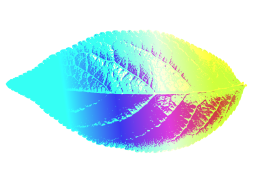
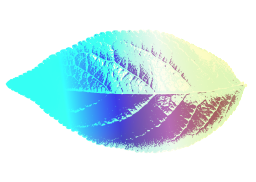
make colors more saturated

Changed region(s): [[0.3125, 0.1648, 0.9688, 0.8516]]

diff --git a/src/view/three/resources.ts b/src/view/three/resources.ts
@@ -53,6 +53,7 @@ async function loadPetalModel(gltfLoader: GLTFLoader, textureLoader: TextureLoad
     const texture = await textureLoader.loadAsync('/petal.png')
     texture.wrapS = THREE.ClampToEdgeWrapping
     texture.wrapT = THREE.ClampToEdgeWrapping
+    texture.colorSpace = THREE.SRGBColorSpace
 
     texture.generateMipmaps = false
     texture.minFilter = THREE.LinearFilter
@@ -103,7 +104,7 @@ async function loadPetalModel(gltfLoader: GLTFLoader, textureLoader: TextureLoad
             void main() {
                 vec3 toLight = vObjectPos - vec3(0, 0, 0);
                 float falloff = exp(2.5 * -length(toLight));
-                float v = falloff * 8.0;
+                float v = falloff * 10.0;
 
                 if (!gl_FrontFacing) {
                     v *= 0.1;

diff --git a/src/view/three/label.ts b/src/view/three/label.ts
@@ -22,7 +22,7 @@ export class Label implements IDisposable {
         this.textObject.anchorX = 'center';
         this.textObject.anchorY = 'middle';
         this.textObject.textAlign = 'center'
-        this.textObject.color = '#bcfff9'
+        this.textObject.color = '#9bfff7'
         this.textObject.sync()
         this.content.add(this.textObject)
 

diff --git a/src/view/three/scene.ts b/src/view/three/scene.ts
@@ -2,7 +2,7 @@ import { THREE } from "../../deps";
 import { scene } from "./main";
 
 export async function initScene() {
-    const point = new THREE.PointLight('#feffac', 0.6, 0.8, 1.6)
+    const point = new THREE.PointLight('#feffd7', 2, 0.8, 1.6)
     point.position.set(0, 0.2, 0)
 
     scene.add(point)
